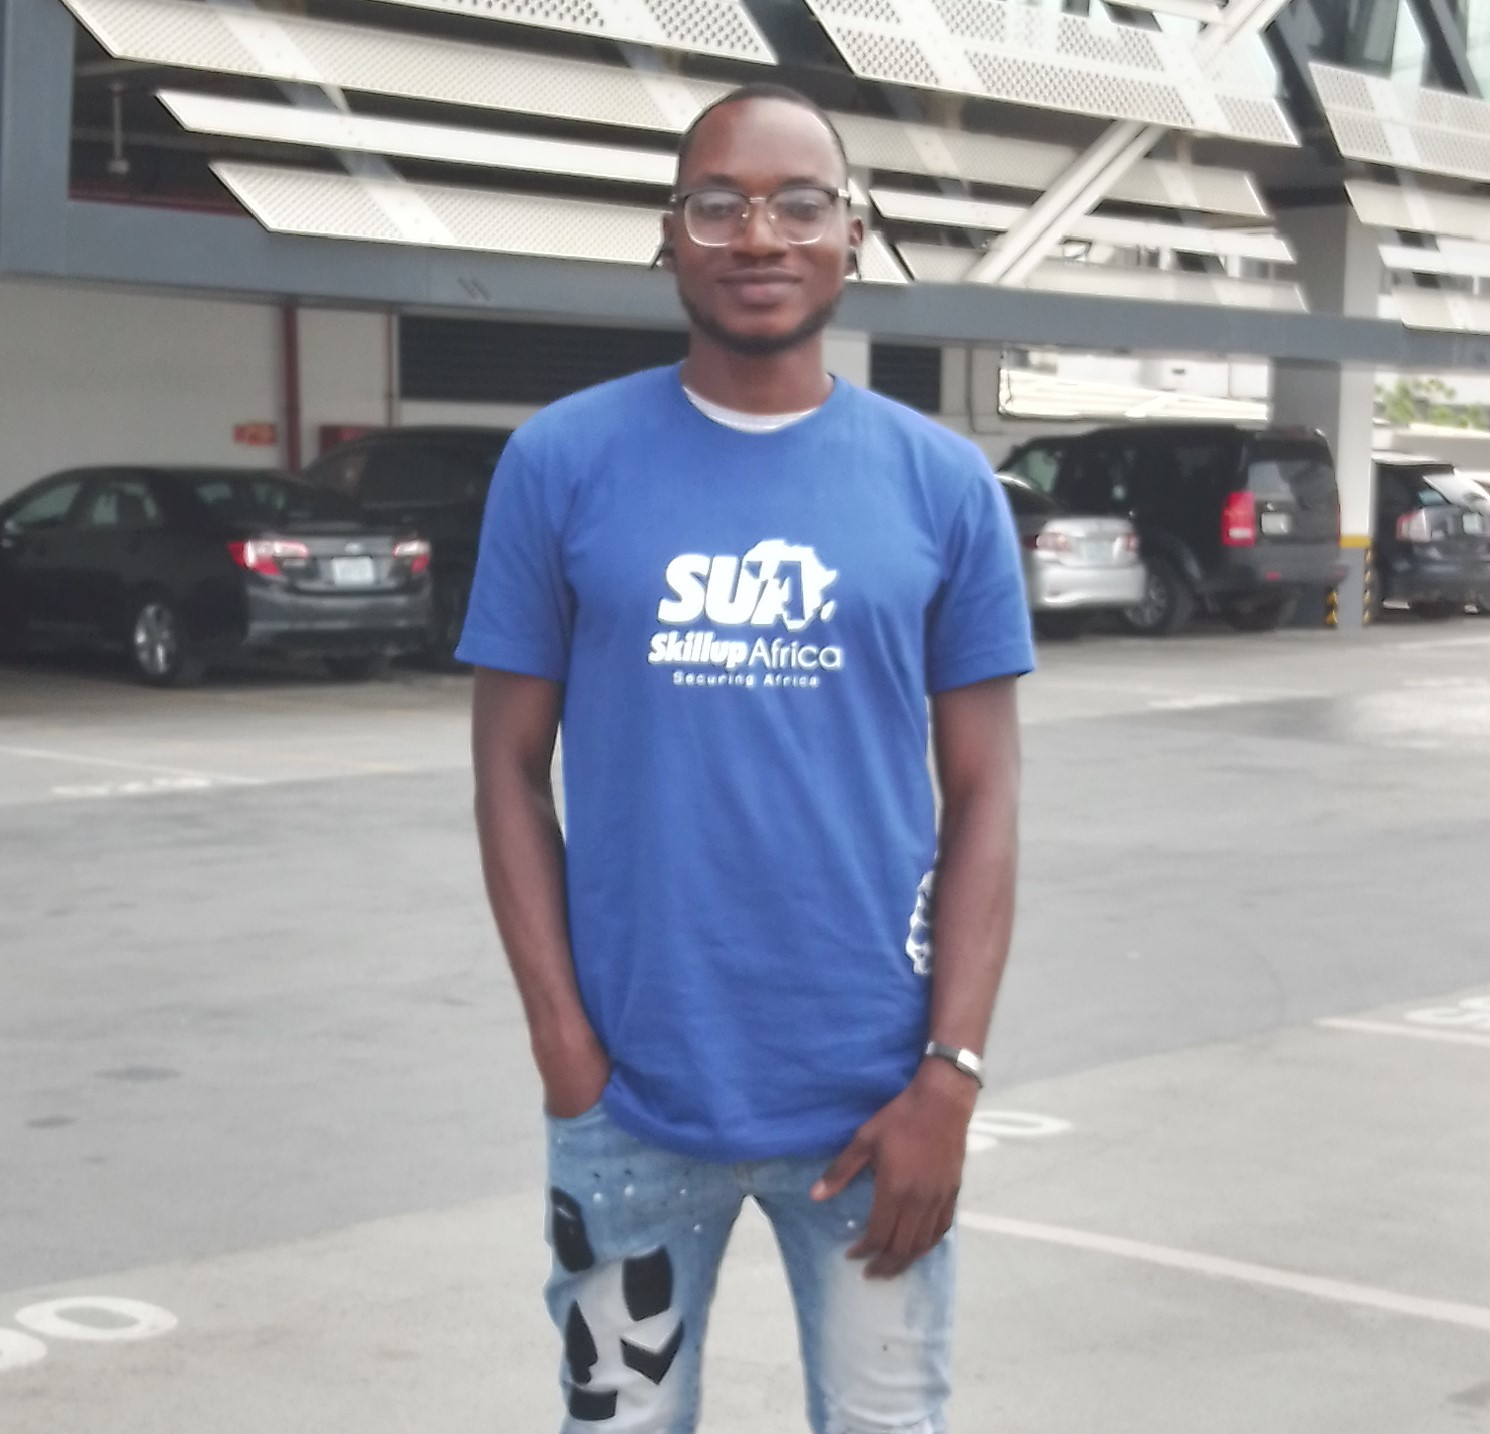
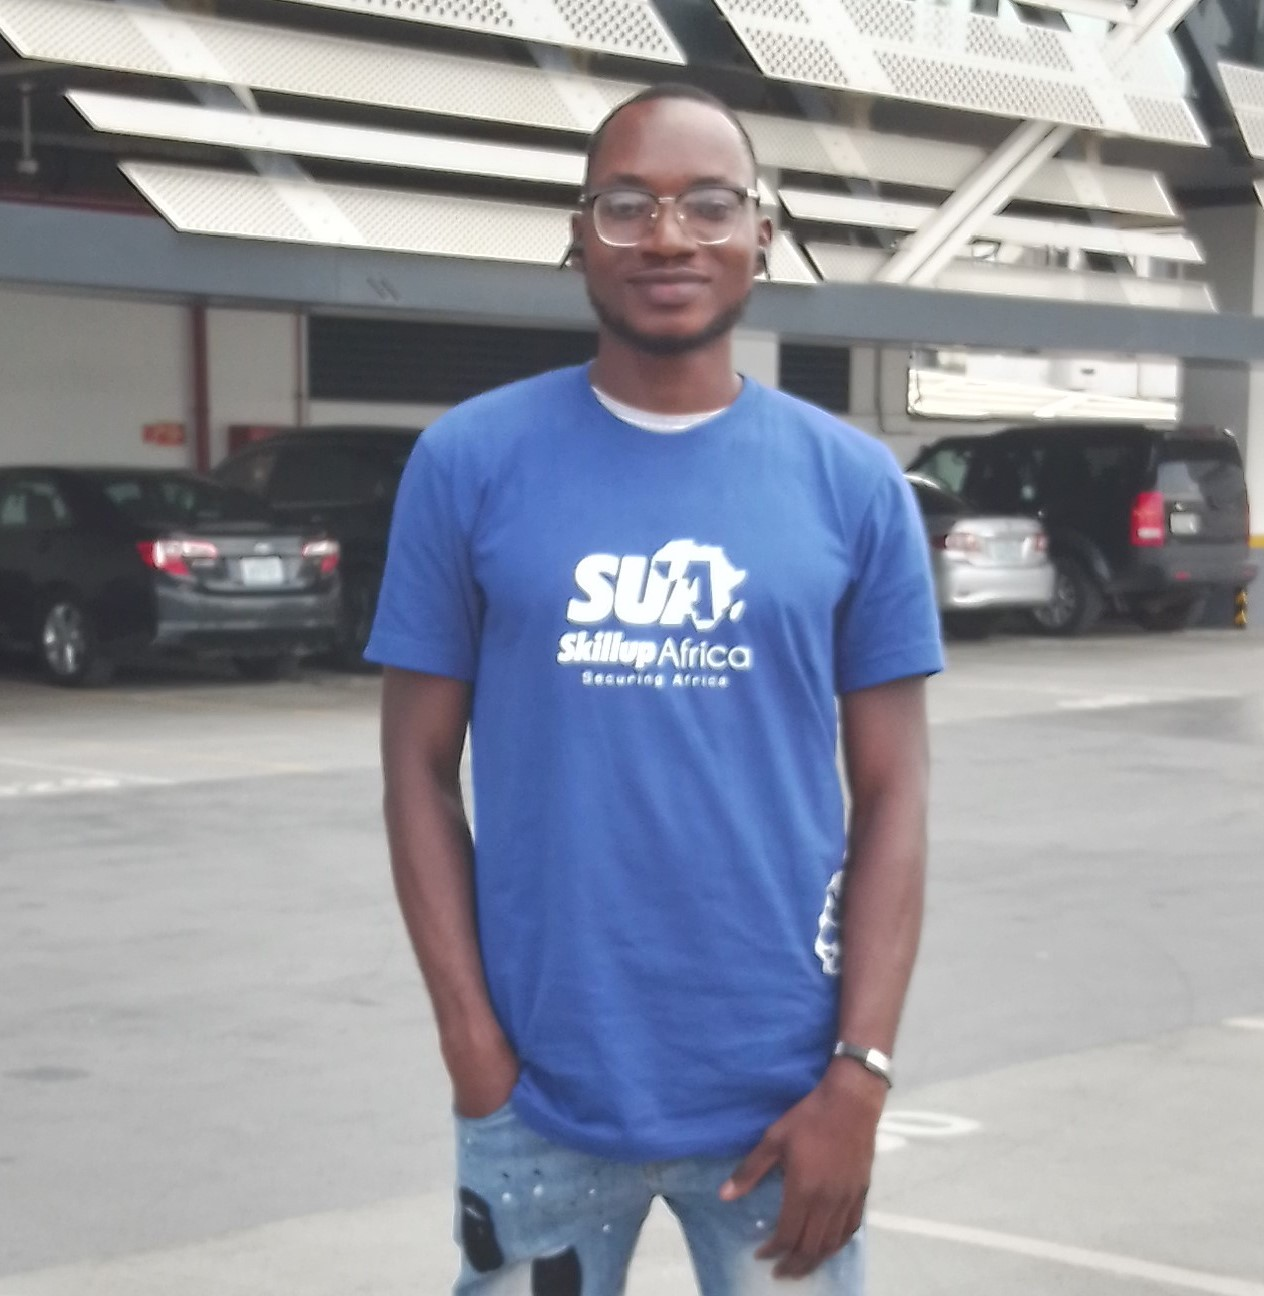
push from christian

diff --git a/index.html b/index.html
@@ -28,7 +28,7 @@
 				<div class="container">
 					<div class="row">
 						<div class="col-4 col-5-large col-12-medium">
-							<span class="image fit"><img src="images/dp.jpg" alt="" /></span>
+							<span class="image fit"><img src="images/chrisphoto.jpg" alt="" /></span>
 						</div>
 						<div class="col-8 col-7-large col-12-medium">
 							<header>
